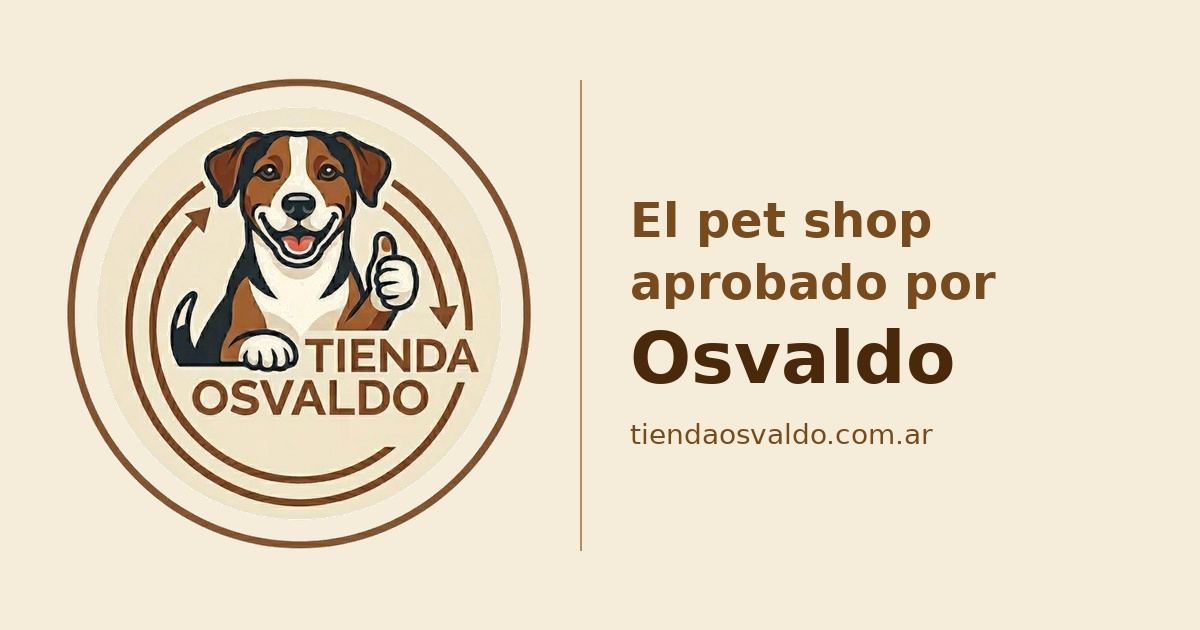
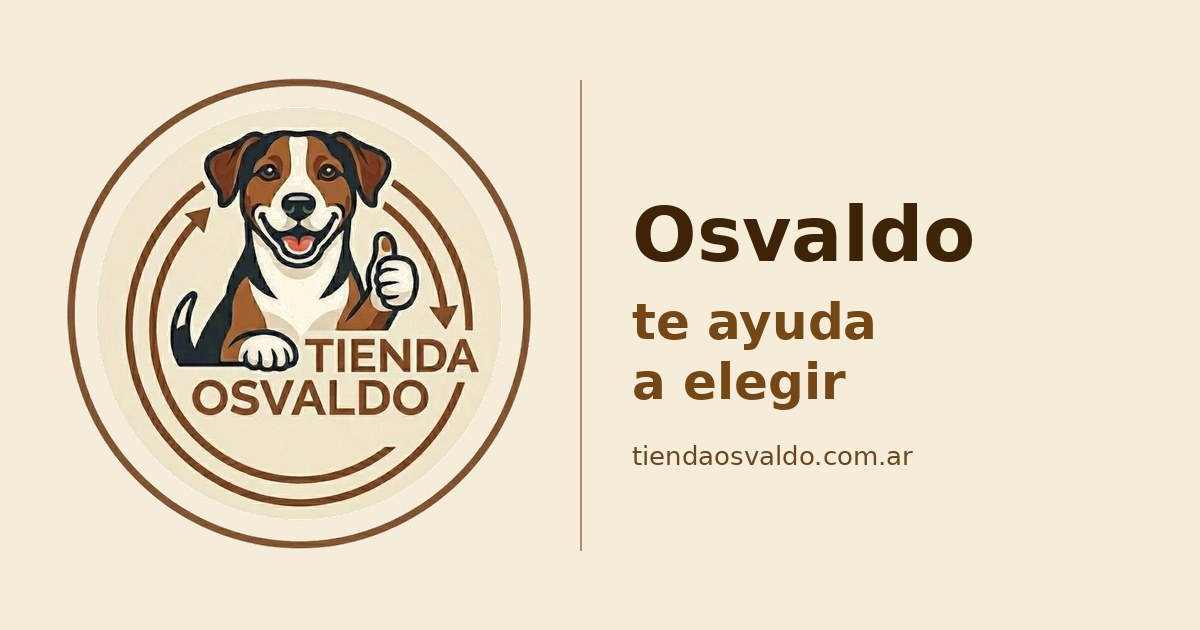
S1-08: la promesa pasa a "Osvaldo te ayuda a elegir"
Se saca todo lo que decía que Osvaldo prueba o aprueba los productos: los
términos del programa de afiliados sancionan la información engañosa.

- Home: el encabezado, la tarjeta de Osvaldo ("Probé cada categoría") y el
  contador ("productos aprobados") dicen ahora lo que es verdad.
- Footer, Sobre Osvaldo, Guías y Contacto ("la evalúo con mi hocico").
- config/site.config.ts: título y descripción por defecto (SEO y redes) y la
  bio de Osvaldo, que solo nombra lo que usa de verdad (pretal Trixie,
  juguetes y snacks de pollo deshidratado).
- Fichas /producto/: "Osvaldo lo recomienda" pasa a "Comprás en Mercado
  Libre". No cambia nada más de las fichas (decisión pendiente, S1-14).
- og-image.jpg: decía "El pet shop aprobado por Osvaldo"; ahora "Osvaldo te
  ayuda a elegir", con el mismo logo.

Claude-Session: https://claude.ai/code/session_01Jk7uXVcMeifEG1nhYciG92

Changed region(s): [[0.5242, 0.3016, 0.8325, 0.754]]

diff --git a/site/config/site.config.ts b/site/config/site.config.ts
@@ -6,7 +6,7 @@
 export const siteConfig = {
   // ── INFORMACIÓN DEL SITIO ──
   name: "Tienda Osvaldo",
-  description: "El pet shop aprobado por Osvaldo. Los mejores productos para perros y gatos, seleccionados con criterio canino.",
+  description: "Osvaldo te ayuda a elegir productos para perros y gatos: guías claras y una selección de productos para comprar en Mercado Libre.",
   url: "https://tiendaosvaldo.com.ar",
   logo: "/img/logo.jpeg",
   favicon: "/img/favicon.ico",
@@ -16,10 +16,11 @@ export const siteConfig = {
   osvaldo: {
     raza: "Mestizo adoptado",
     edad: "8 años",
-    descripcionCorta: "Perro mestizo adoptado, 8 años. Probador oficial de productos y fundador involuntario de esta tienda.",
+    descripcionCorta: "Perro mestizo adoptado, 8 años, y fundador involuntario de esta tienda. No pruebo todos los productos: te ayudo a elegir. Lo que uso de verdad, te lo cuento.",
     bio: [
-      "Osvaldo llegó a casa hace 8 años y desde entonces es el responsable de todas las decisiones importantes: qué arnés usar, qué snack comer, qué juguete comprar.",
-      "Su criterio de selección es simple: si lo ignora o lo destruye en 5 minutos, no pasa el corte. Si lo usa todos los días y nos mira con esos ojos cuando queremos sacárselo, va directo a la tienda.",
+      // Solo hechos: Osvaldo no prueba los productos del sitio (S1-08, términos del programa de afiliados).
+      "Osvaldo llegó a casa hace 8 años y es la cara de esta tienda. No prueba todos los productos que aparecen acá: el sitio te ayuda a elegir con guías.",
+      "Lo que sí usa de verdad: su pretal Trixie, sus juguetes y los snacks de pollo deshidratado. De eso habla con conocimiento de causa.",
       "También acepta sobornos en forma de premios de pollo.",
     ],
     tags: ["Mestizo adoptado", "8 años", "Le encanta el parque", "Odia los globos"],
@@ -38,9 +39,9 @@ export const siteConfig = {
 
   // ── SEO ──
   seo: {
-    defaultTitle: "Tienda Osvaldo — El pet shop aprobado por Osvaldo",
+    defaultTitle: "Tienda Osvaldo — Osvaldo te ayuda a elegir para tu perro o gato",
     titleTemplate: "%s — Tienda Osvaldo",
-    defaultDescription: "Encontrá los mejores accesorios, alimentos y juguetes para perros y gatos. Aprobado por Osvaldo, disponible en Mercado Libre.",
+    defaultDescription: "Guías y productos seleccionados para perros y gatos: pretales, alimento, arena, camas y juguetes. Osvaldo te ayuda a elegir; comprás en Mercado Libre.",
     ogImage: "/img/og-image.jpg",
   },
 } as const

diff --git a/site/app/page.tsx b/site/app/page.tsx
@@ -34,7 +34,7 @@ export default function HomePage() {
         <div className={styles.hero}>
           <div className={styles.heroContent}>
             <div className={styles.heroEyebrow}>
-              🐶 Aprobado por Osvaldo, un perro mestizo con criterio
+              🐶 Osvaldo te ayuda a elegir
             </div>
             <h1 className={styles.heroTitle}>
               Lo mejor para<br />tus <span>peludos</span>,<br />sin vueltas.
@@ -77,12 +77,12 @@ export default function HomePage() {
               <div className={styles.osvaldoLabel}>✅ Chief Sniff Officer</div>
               <h3 className={styles.osvaldoName}>Soy Osvaldo</h3>
               <div className={styles.osvaldoDesc}>
-                Mestizo adoptado, 8 años. Probé cada categoría de esta tienda.
-                Si no me copa, no lo publicamos.
+                Mestizo adoptado, 8 años. No pruebo todo lo que ves acá:
+                te ayudo a elegir. Lo que uso de verdad, te lo cuento.
               </div>
               <div className={styles.statSingle}>
                 <span className={styles.statNum}>{totalProductos}</span>
-                <span className={styles.statLabel}>productos aprobados por Osvaldo</span>
+                <span className={styles.statLabel}>productos seleccionados</span>
               </div>
               <Link href="/sobre-osvaldo#como-funciona" className="btn btn-fill">
                 🛍 Cómo funciona →

diff --git a/site/app/sobre-osvaldo/page.tsx b/site/app/sobre-osvaldo/page.tsx
@@ -6,7 +6,7 @@ import styles from "./page.module.css"
 
 export const metadata: Metadata = {
   title:     "Sobre Osvaldo",
-  description: "La historia detrás de Tienda Osvaldo: cómo funciona y por qué confiamos en el criterio de un perro mestizo.",
+  description: "Quién es Osvaldo y cómo funciona Tienda Osvaldo: te ayudamos a elegir productos para perros y gatos, y comprás en Mercado Libre.",
   openGraph: { title: "Sobre Osvaldo — Tienda Osvaldo" },
 }
 
@@ -22,7 +22,7 @@ export default function SobreOsvaldoPage() {
             Hola, soy <span>Osvaldo.</span>
           </h1>
           <p className={styles.heroDesc}>
-            Perro mestizo adoptado, 8 años. Probador oficial de productos y fundador involuntario de esta tienda.
+            {siteConfig.osvaldo.descripcionCorta}
           </p>
         </div>
       </div>

diff --git a/site/app/producto/[id]/page.tsx b/site/app/producto/[id]/page.tsx
@@ -148,9 +148,9 @@ export default async function ProductPage({ params }: Props) {
               <Image src={siteConfig.logo} alt="Osvaldo" fill className={styles.osvaldoNoteAvatarImg} />
             </div>
             <div>
-              <strong className={styles.osvaldoNoteTitle}>✔ Osvaldo lo recomienda</strong>
+              <strong className={styles.osvaldoNoteTitle}>Comprás en Mercado Libre</strong>
               <p className={styles.osvaldoNoteText}>
-                Producto disponible con toda la proteccion al comprador de Mercado Libre.
+                Producto disponible con toda la protección al comprador de Mercado Libre.
               </p>
             </div>
           </div>

diff --git a/site/app/contacto/page.tsx b/site/app/contacto/page.tsx
@@ -57,7 +57,7 @@ export default function ContactoPage() {
               <span className={styles.noteName}>Osvaldo dice:</span>
             </div>
             <p style={{ fontSize: "13px", color: "var(--muted)", fontWeight: 500, lineHeight: 1.6 }}>
-              Si tenés una sugerencia de producto, me encanta recibirla. Yo la evalúo personalmente con mi hocico.
+              Si tenés una sugerencia de producto o una duda que te gustaría ver resuelta en una guía, escribinos. Mi humano lee todos los mensajes.
             </p>
           </div>
           <div className={styles.noteMsgNoML}>

diff --git a/site/components/Footer.tsx b/site/components/Footer.tsx
@@ -27,7 +27,7 @@ export default function Footer() {
             </span>
           </Link>
           <p className={styles.desc}>
-            {"Osvaldo tiene 8 años, criterio propio y " + productosCurados.length + " productos aprobados. Todo disponible en Mercado Libre."}
+            {"Osvaldo tiene 8 años y te ayuda a elegir entre " + productosCurados.length + " productos seleccionados. Todo disponible en Mercado Libre."}
           </p>
         </div>
 

diff --git a/site/app/guias/page.tsx b/site/app/guias/page.tsx
@@ -6,7 +6,7 @@ import styles from "./page.module.css"
 
 export const metadata: Metadata = {
   title:       "Guías para mascotas",
-  description: "Guías y comparativas para elegir los mejores productos para tu perro o gato. Aprobadas por Osvaldo.",
+  description: "Guías para elegir productos para tu perro o gato: qué mirar antes de comprar, sin vueltas.",
   openGraph: { ...ogBase, title: "Guías para mascotas — Tienda Osvaldo" },
 }
 
